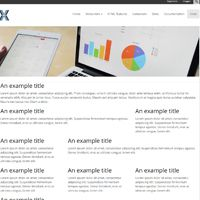
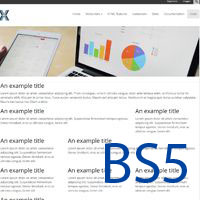
DNN Reset restructure + build script and minor details

Changed region(s): [[0.51, 0.69, 0.96, 0.93], [0.66, 0.24, 0.69, 0.3]]

diff --git a/_dnn-base/scss/_overrides.scss b/_dnn-base/scss/_overrides.scss
@@ -1,11 +1,7 @@
 @import "dnn/_text.scss";
 @import "dnn/_forms.scss";
-@import "dnn/_buttons.scss";
-@import "dnn/_tabs.scss";
-@import "dnn/_button-group.scss";
 @import "dnn/_containers.scss";
 @import "dnn/_modules.scss";
 @import "dnn/_module-actions.scss";
 @import "dnn/_personabar.scss";
-@import "bootstrap/_bootstrap.scss";
 @import "40FINGERS/_40F-pane-highlight.scss";

diff --git a/src/scss/skin.scss b/src/scss/skin.scss
@@ -14,6 +14,7 @@
 // ----------------------------------------------------------------------
 
 @import "../../_dnn-base/scss/_overrides.scss";
+@import "../../_dnn-base/scss/bootstrap/5/_index.scss";
 
 // ----------------------------------------------------------------------
   // Base

diff --git a/_dnn-base/scss/bootstrap/5/_index.scss b/_dnn-base/scss/bootstrap/5/_index.scss
@@ -1,0 +1,4 @@
+@import "_bootstrap.scss";
+@import "_buttons.scss";
+@import "_tabs.scss";
+@import "_button-group.scss";
